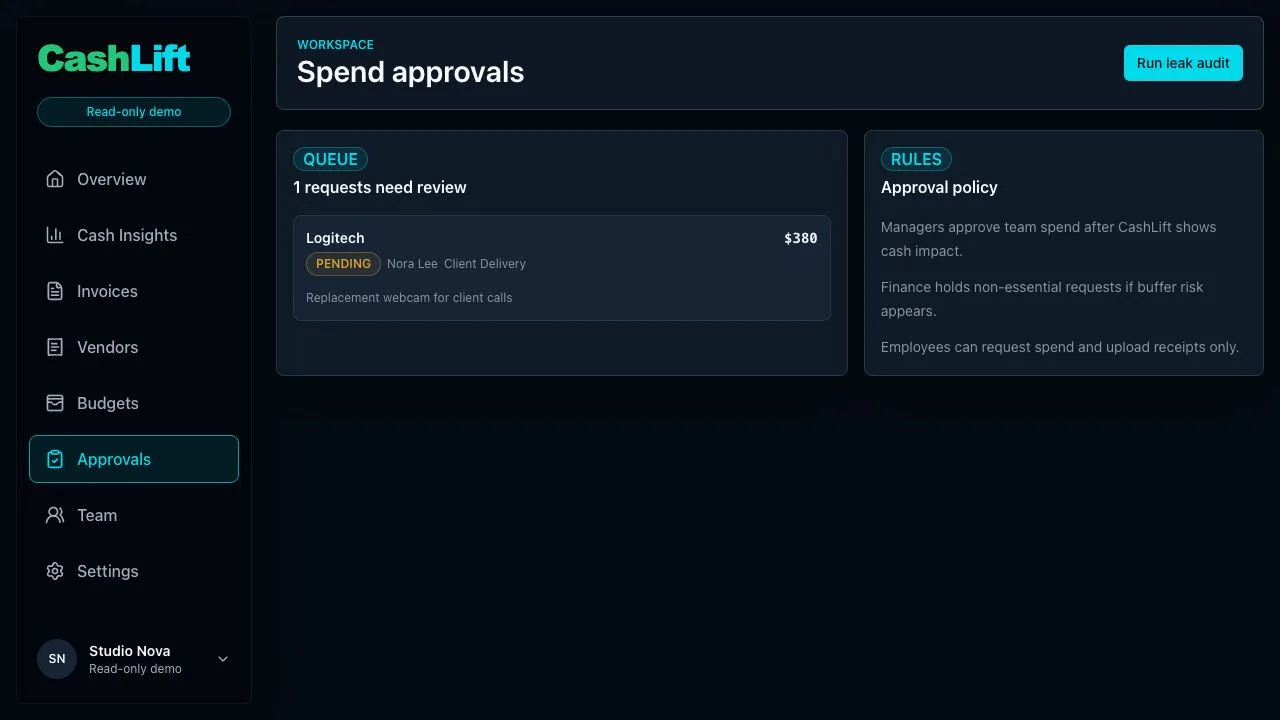
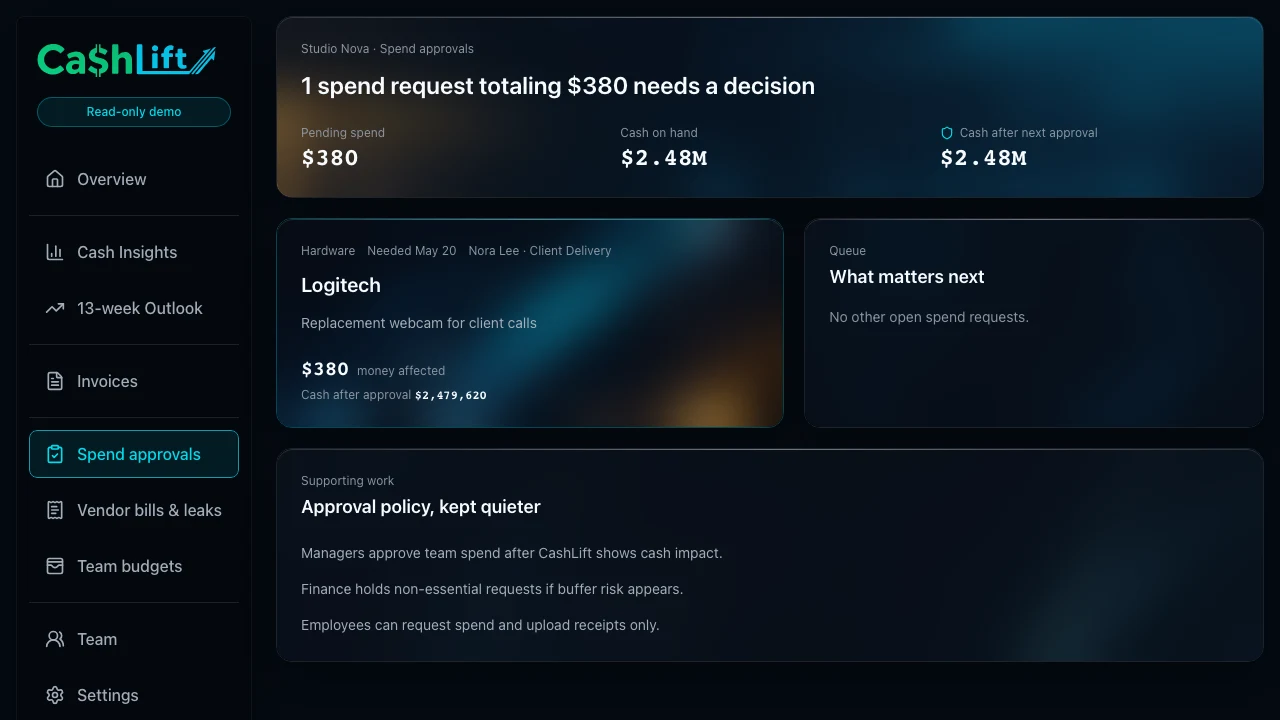
Marketing: Refresh Today decision dashboard images

diff --git a/src/modules/marketing/components/HomeDecisionStorySection.tsx b/src/modules/marketing/components/HomeDecisionStorySection.tsx
@@ -9,15 +9,16 @@ type HomeDecisionStorySectionProps = {
 
 const DECISION_CHAPTERS = {
 	approve: {
-		imageAlt: "Studio Nova approval queue showing the cash remaining after a hardware request",
+		imageAlt: "CashLift spend approvals dashboard showing a $380 Logitech request and cash after the next approval",
 		imageSrc: "/marketing/studio-nova-approvals.webp",
 	},
 	collect: {
-		imageAlt: "Studio Nova invoice view highlighting overdue collection risk",
+		imageAlt:
+			"CashLift invoice dashboard showing $213,500 in overdue cash risk and Aurora Health as the priority collection",
 		imageSrc: "/marketing/studio-nova-invoices.webp",
 	},
 	cut: {
-		imageAlt: "Studio Nova vendor view showing low-use and duplicate subscriptions",
+		imageAlt: "CashLift vendor bills and leaks dashboard showing Notion as a $13,200 monthly vendor leak",
 		imageSrc: "/marketing/studio-nova-vendors.webp",
 	},
 } as const;
